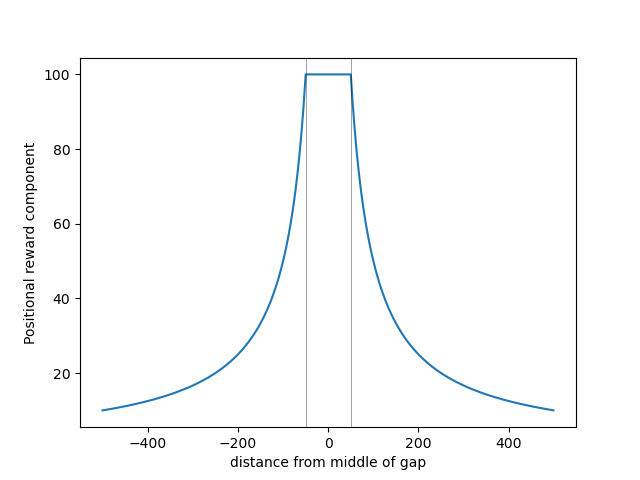
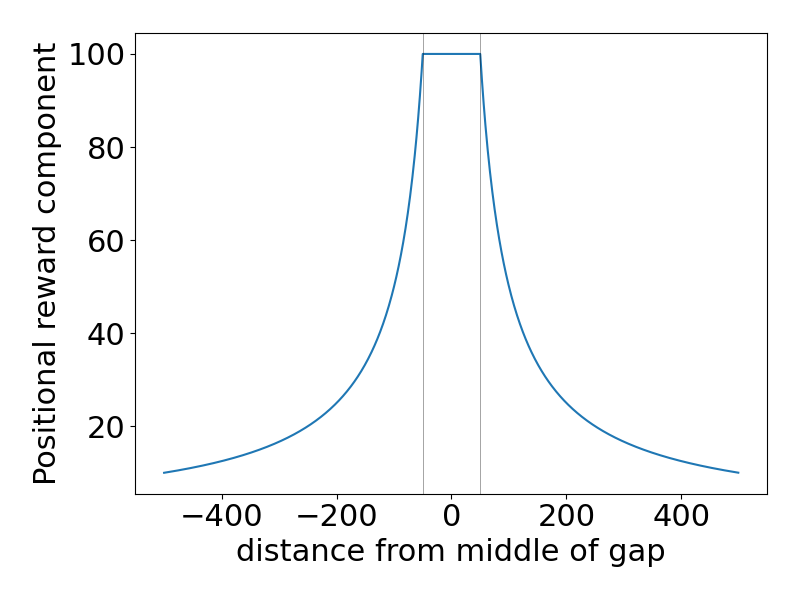
Increased font size

diff --git a/flappy_bird_gym/envs/flappy_bird_env_rgb.py b/flappy_bird_gym/envs/flappy_bird_env_rgb.py
@@ -120,16 +120,19 @@ class FlappyBirdEnvRGB(gym.Env):
         if done:
             if self._game.collision_upper_pipe is not None:
                 reward = []
+                plt.rcParams.update({'font.size': 22})
                 middle_of_gap = self._game.collision_upper_pipe['y'] + self._game.get_pipe_height() + self._game.get_pipe_gap_size() / 2
                 for y in range(int(middle_of_gap) - 500, int(middle_of_gap) + 500):
                     distance = abs(y - middle_of_gap) / (self._game.get_pipe_gap_size() / 2)
                     reward.append(self.hit_multiplicator / max([1, distance]))
                 print(reward)
+                fig, ax = plt.subplots(figsize=(8, 6))
                 plt.plot(range(-500, 500), reward)
                 plt.xlabel("distance from middle of gap")
                 plt.ylabel("Positional reward component")
                 plt.axvline(x=self._game.get_pipe_gap_size() / 2, color="black", linewidth=0.5, linestyle='-', alpha=0.5)
                 plt.axvline(x=-self._game.get_pipe_gap_size() / 2, color="black", linewidth=0.5, linestyle='-', alpha=0.5)
+                plt.tight_layout()
                 plt.savefig("C:/Users/danie/Desktop/251b_project/positional_reward_component.png")
                 exit()
         info = {"score": self._game.score}
